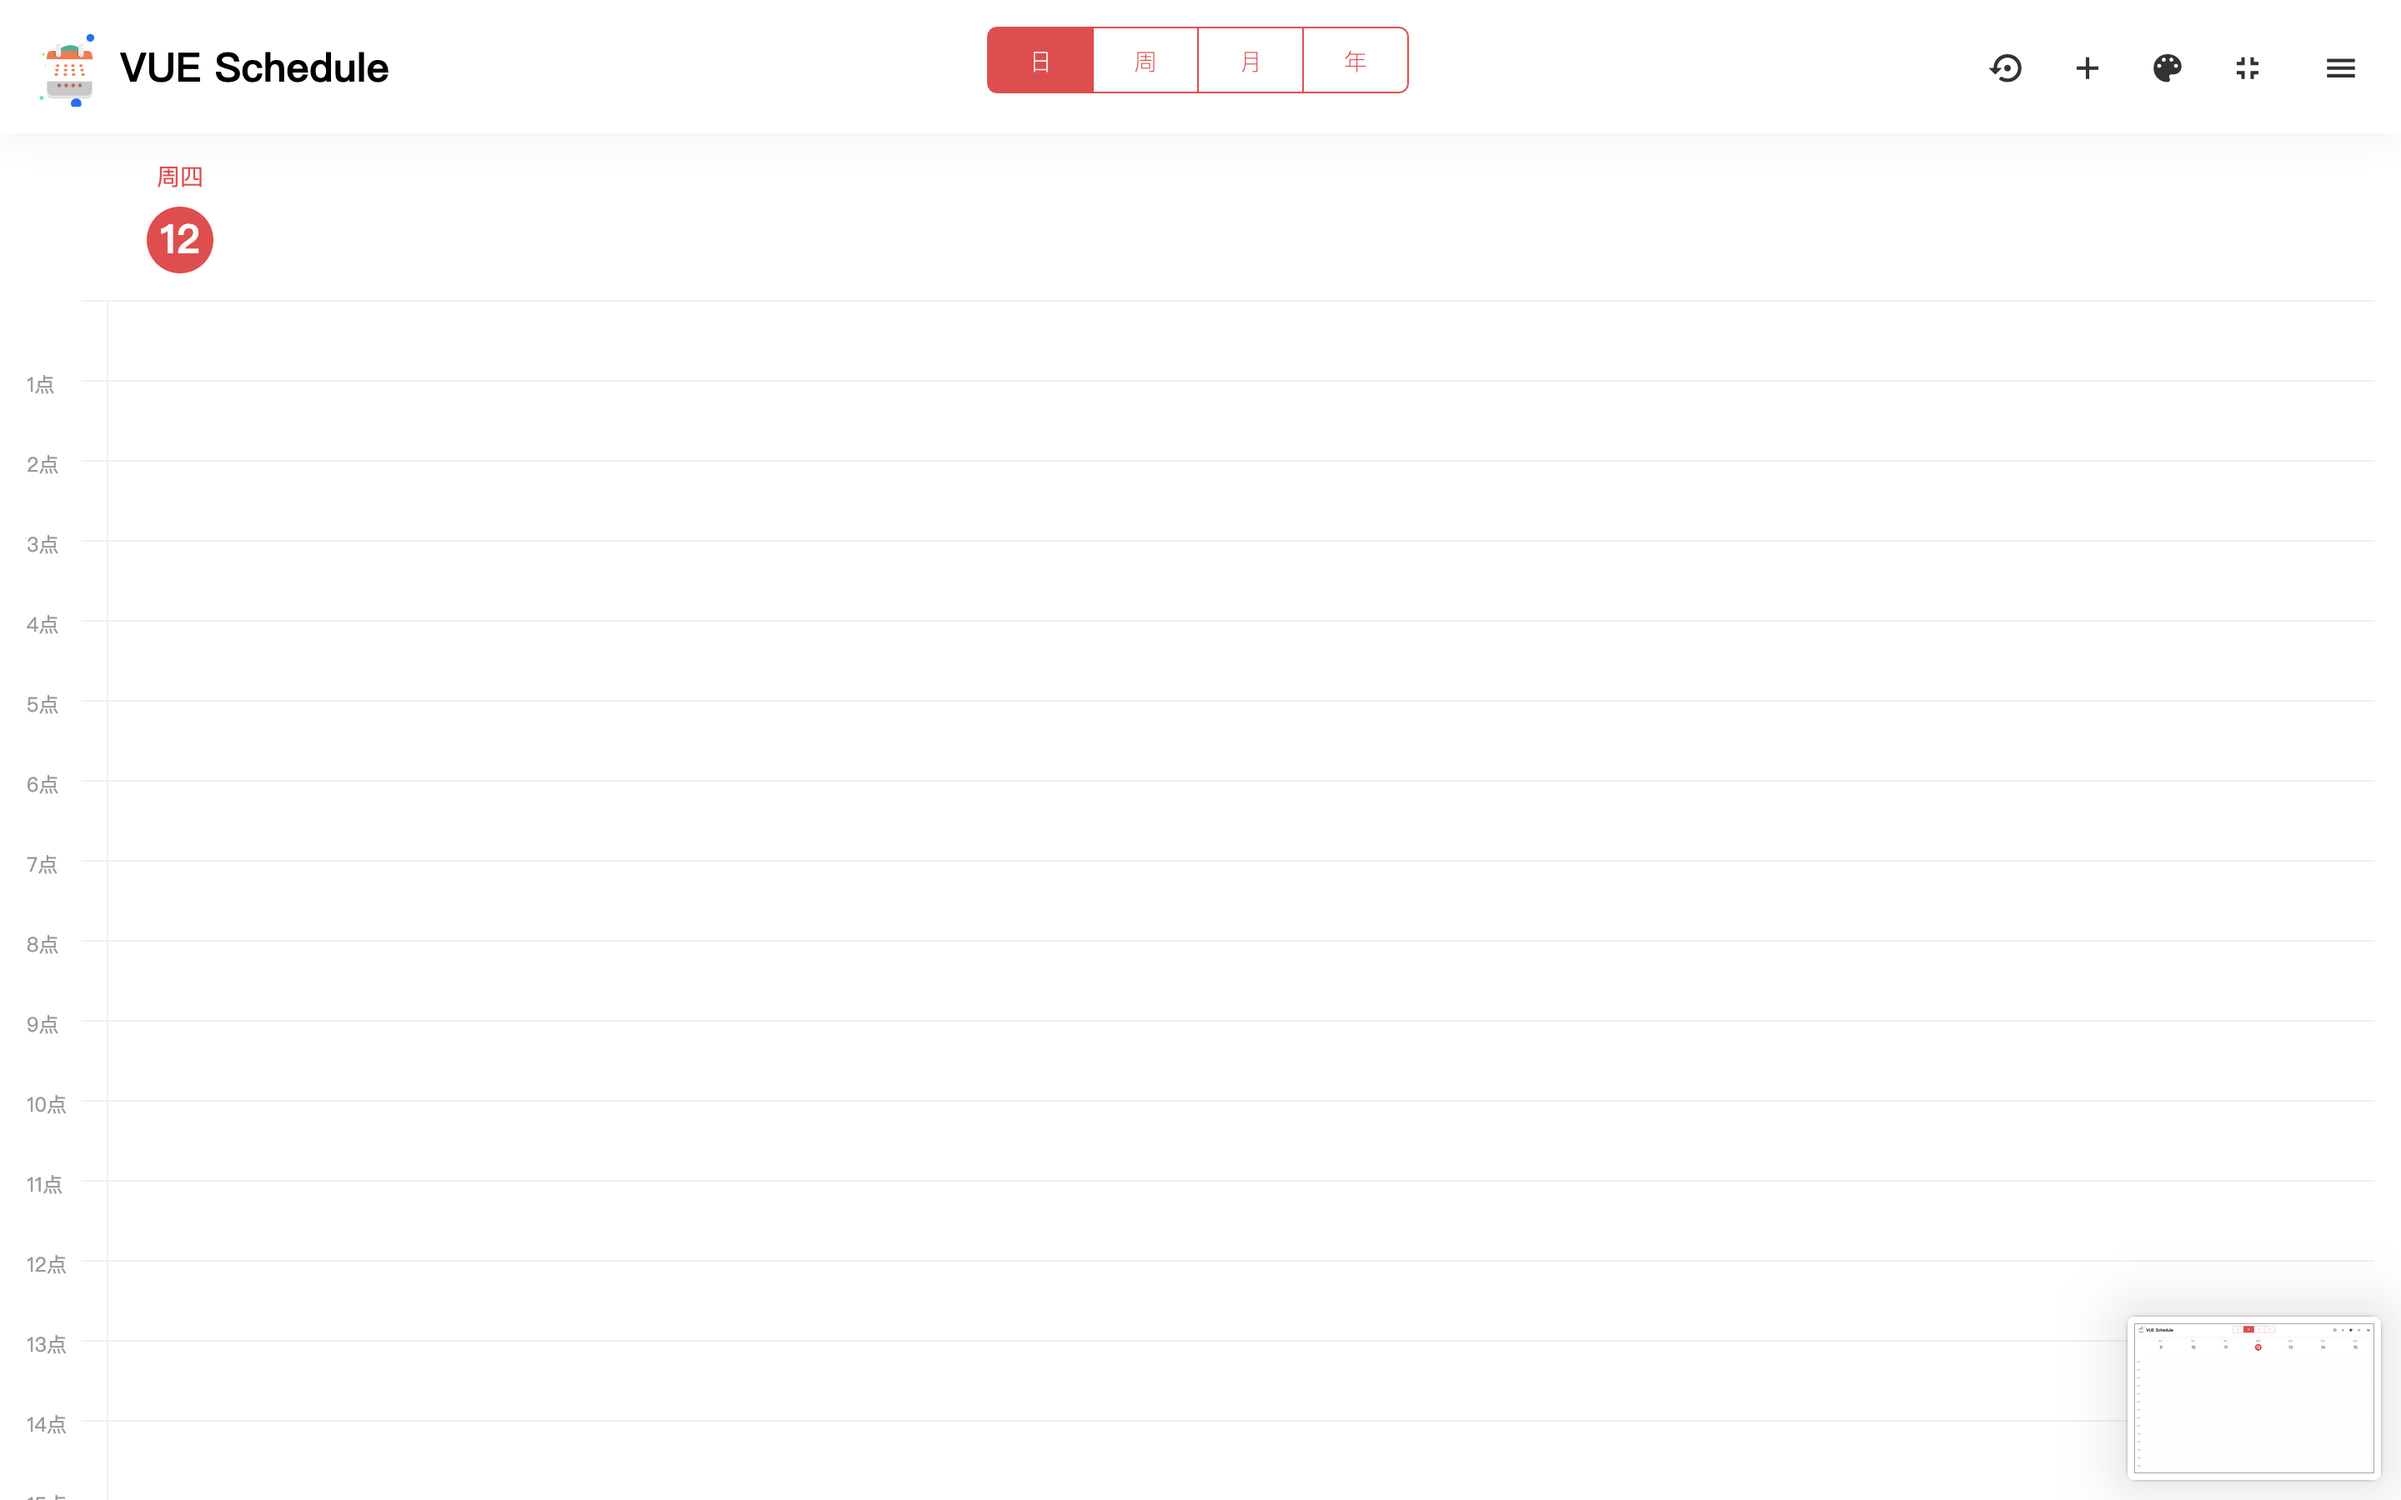
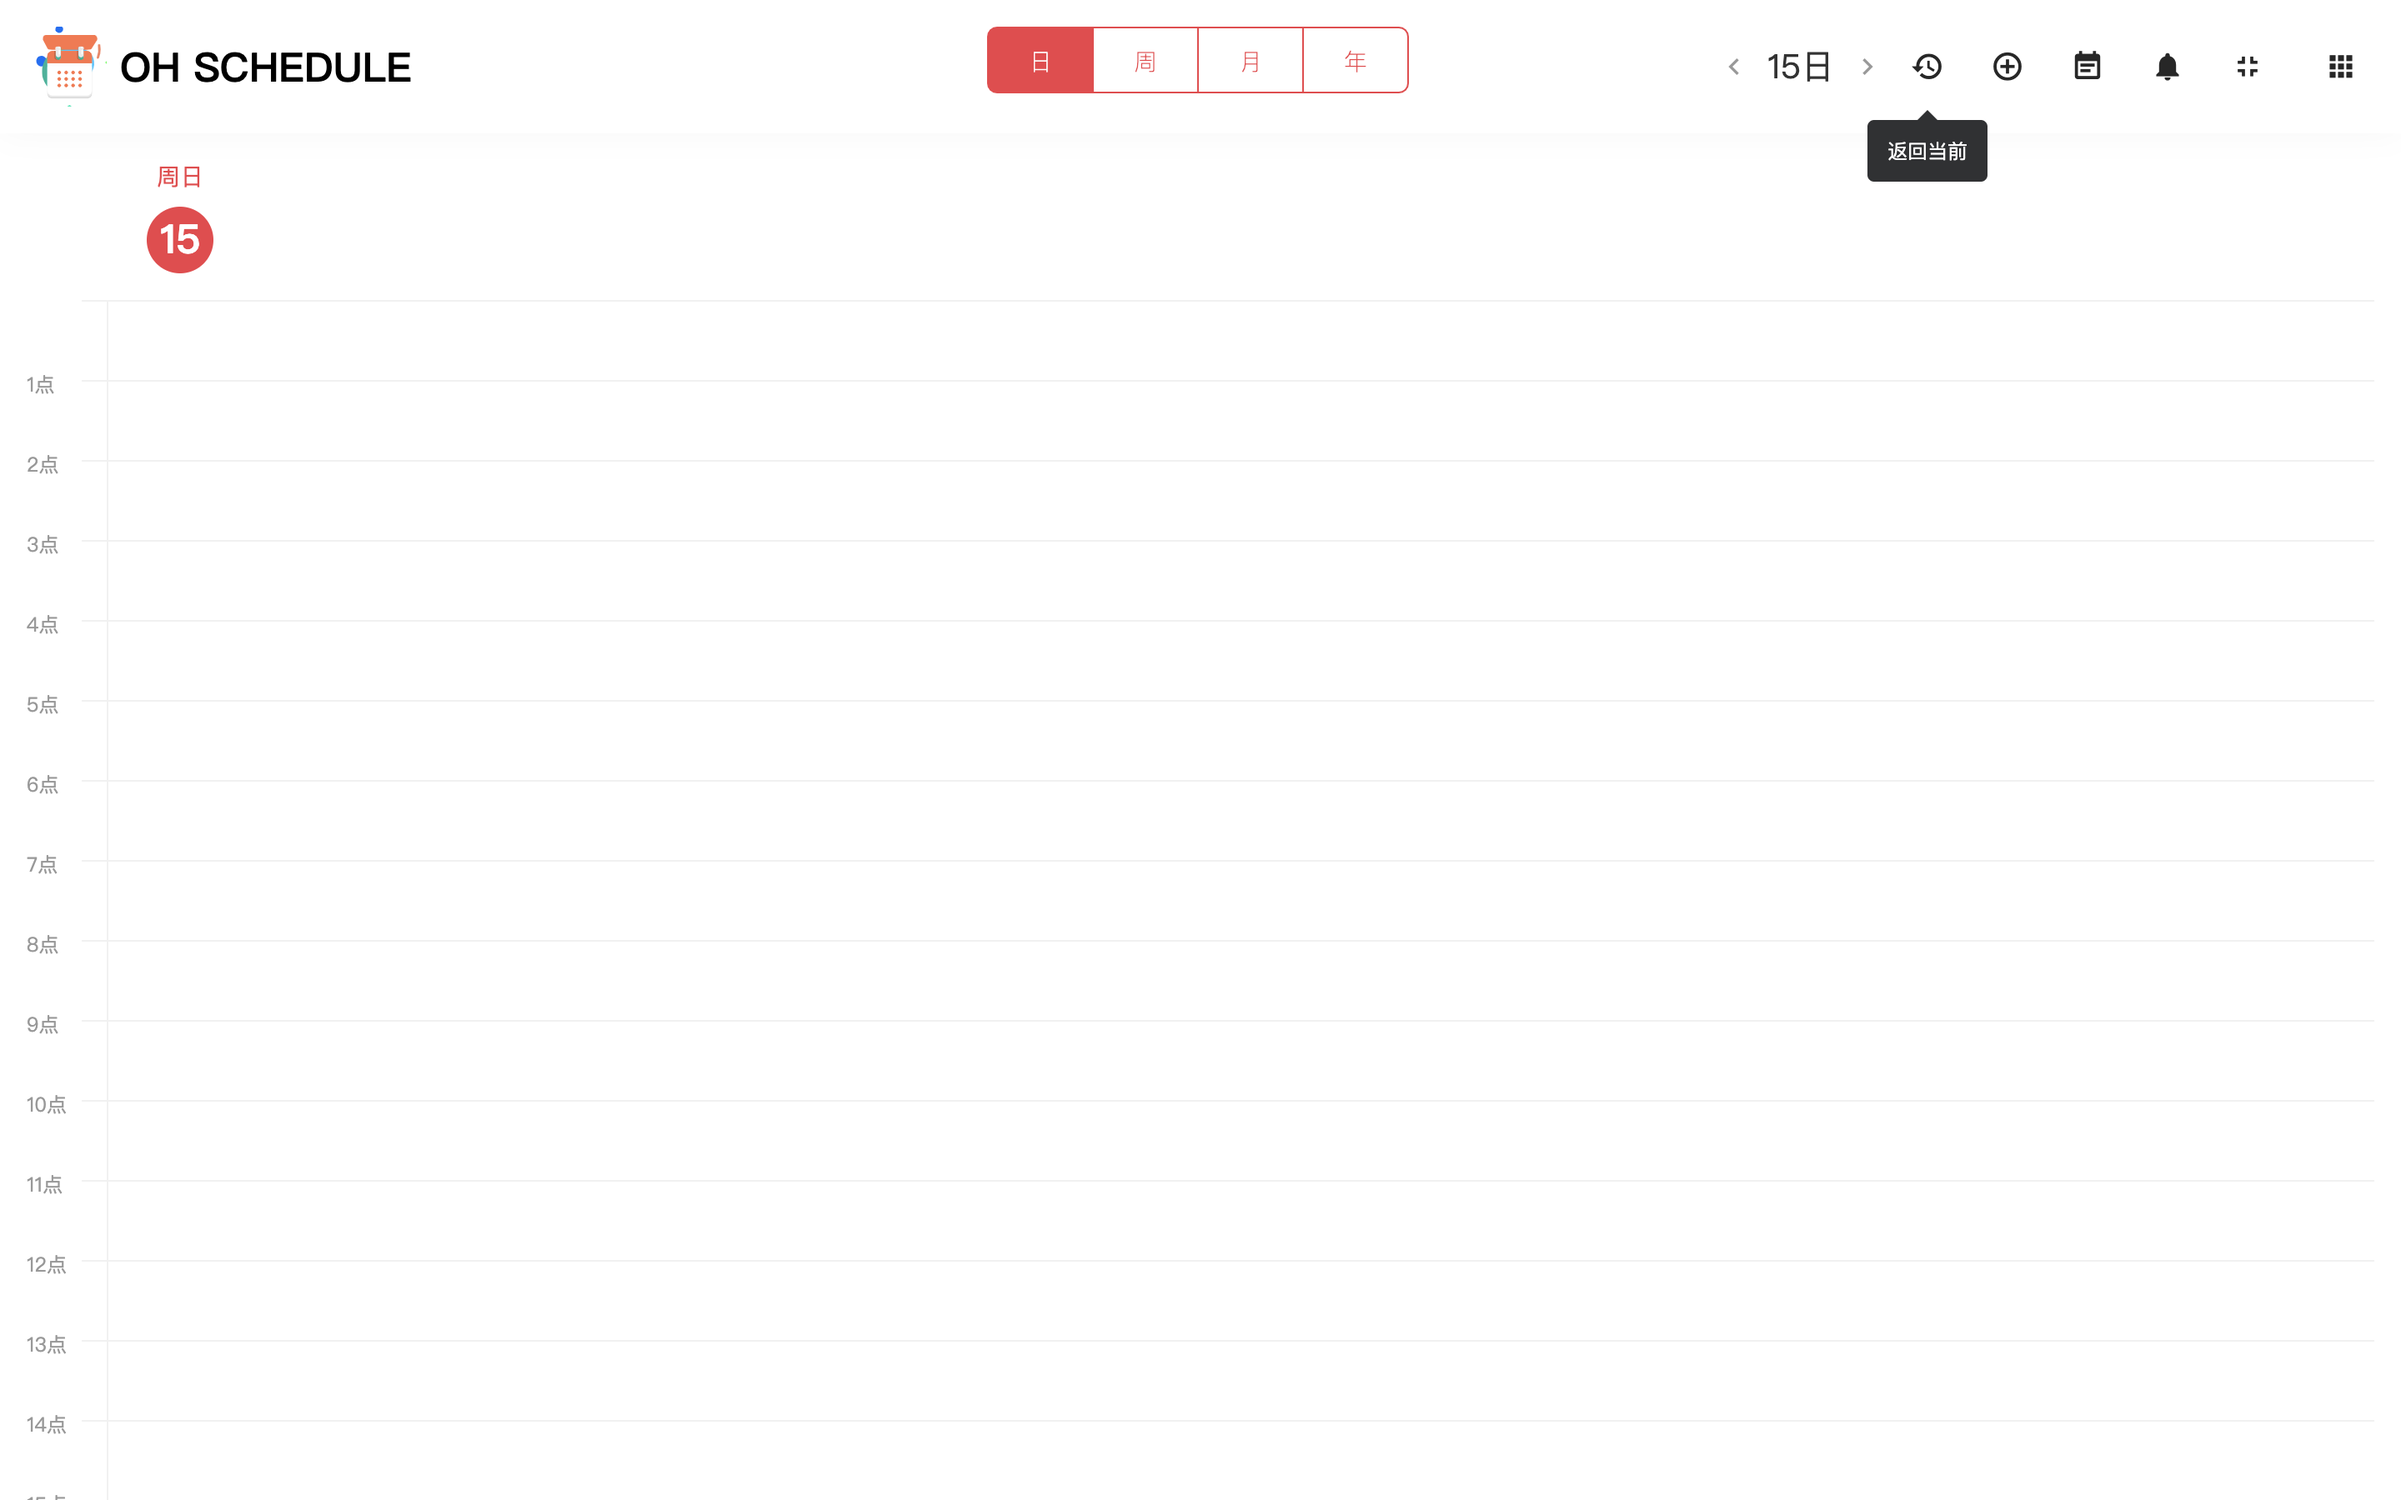
update screenshot

diff --git a/src/components/schedule/DayView.vue b/src/components/schedule/DayView.vue
@@ -32,8 +32,8 @@
                 currentDay:
                     {
                         isToday: true,
-                        week: '周四',
-                        day: '12'
+                        week: '周日',
+                        day: '15'
                     }
             }
         },
